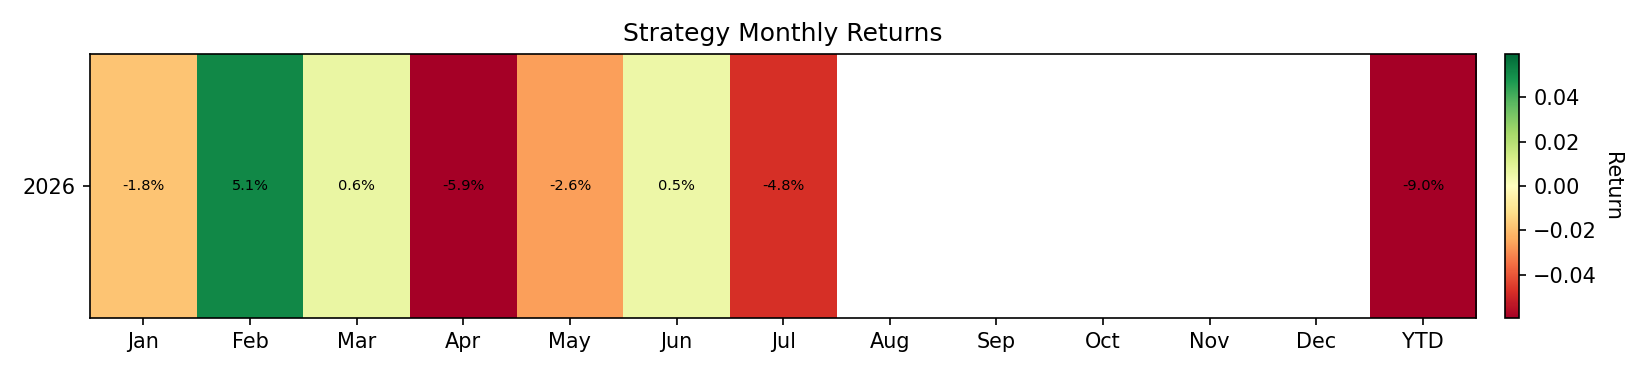
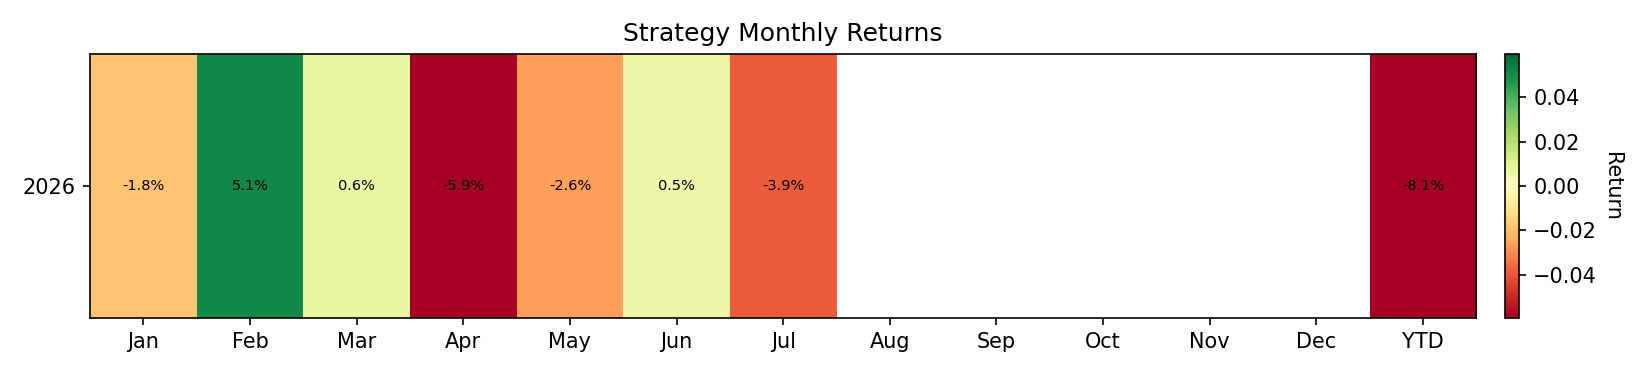
Update reports: 2026-07-31 00:02:37 UTC

Changed region(s): [[0.4327, 0.1467, 0.5255, 0.8507]]

diff --git a/README.md b/README.md
@@ -22,28 +22,28 @@ All results are live and reported net of transaction costs and slippage.
 - CSV: `metrics_strategy.csv`
 
 <!-- METRICS_START -->
-| metric                       |        values |
-|:-----------------------------|--------------:|
-| Number of Observations       | 184           |
-| Mean Daily Return            |  -0.000476479 |
-| Daily Volatility             |   0.00845318  |
-| Mean Annualized Return       |  -0.173915    |
-| Annualized Volatility        |   0.161498    |
-| Maximum Drawdown             |  -0.156146    |
-| Max Drawdown Duration (Days) | 155           |
-| Sharpe                       |  -1.07689     |
-| Sortino                      |  -1.48725     |
-| Calmar                       |  -1.1138      |
-| CAGR                         |  -0.170468    |
-| Skewness                     |   0.700503    |
-| Excess Kurtosis              |   8.74851     |
-| Win Rate                     |   0.461957    |
-| Profit Factor                |   0.836459    |
-| VaR 1%                       |  -0.0273784   |
-| CVaR 1%                      |  -0.030925    |
-| VaR 5%                       |  -0.0112201   |
-| CVaR 5%                      |  -0.0201626   |
-| Correlation with BTC         |   0.00282501  |
+| metric                       |       values |
+|:-----------------------------|-------------:|
+| Number of Observations       | 185          |
+| Mean Daily Return            |  -0.00042239 |
+| Daily Volatility             |   0.00846221 |
+| Mean Annualized Return       |  -0.154172   |
+| Annualized Volatility        |   0.16167    |
+| Maximum Drawdown             |  -0.156146   |
+| Max Drawdown Duration (Days) | 156          |
+| Sharpe                       |  -0.953621   |
+| Sortino                      |  -1.31842    |
+| Calmar                       |  -0.98736    |
+| CAGR                         |  -0.153944   |
+| Skewness                     |   0.684124   |
+| Excess Kurtosis              |   8.62538    |
+| Win Rate                     |   0.464865   |
+| Profit Factor                |   0.854236   |
+| VaR 1%                       |  -0.0273487  |
+| CVaR 1%                      |  -0.030925   |
+| VaR 5%                       |  -0.0111828  |
+| CVaR 5%                      |  -0.0201626  |
+| Correlation with BTC         |   0.00270476 |
 <!-- METRICS_END -->
 
 ## Sharpe Statistics
@@ -55,14 +55,14 @@ All results are live and reported net of transaction costs and slippage.
 | metric                     |   values |
 |:---------------------------|---------:|
 | alpha                      |   0.05   |
-| t-statistic                |  -0.7646 |
-| p-value                    |   0.4455 |
-| Daily Sharpe Ratio         |  -0.0564 |
-| Annualized Sharpe Ratio    |  -1.0769 |
-| Sharpe Standard Error      |   1.4458 |
-| C.I. Lower Bound           |  -3.9106 |
-| C.I. Upper Bound           |   1.7568 |
-| Bootstrap C.I. Lower Bound |  -4.3121 |
-| Bootstrap C.I. Upper Bound |   2.6713 |
+| t-statistic                |  -0.6789 |
+| p-value                    |   0.498  |
+| Daily Sharpe Ratio         |  -0.0499 |
+| Annualized Sharpe Ratio    |  -0.9536 |
+| Sharpe Standard Error      |   1.4369 |
+| C.I. Lower Bound           |  -3.7698 |
+| C.I. Upper Bound           |   1.8626 |
+| Bootstrap C.I. Lower Bound |  -4.0551 |
+| Bootstrap C.I. Upper Bound |   2.4853 |
 <!-- SHARPE_END -->
 
